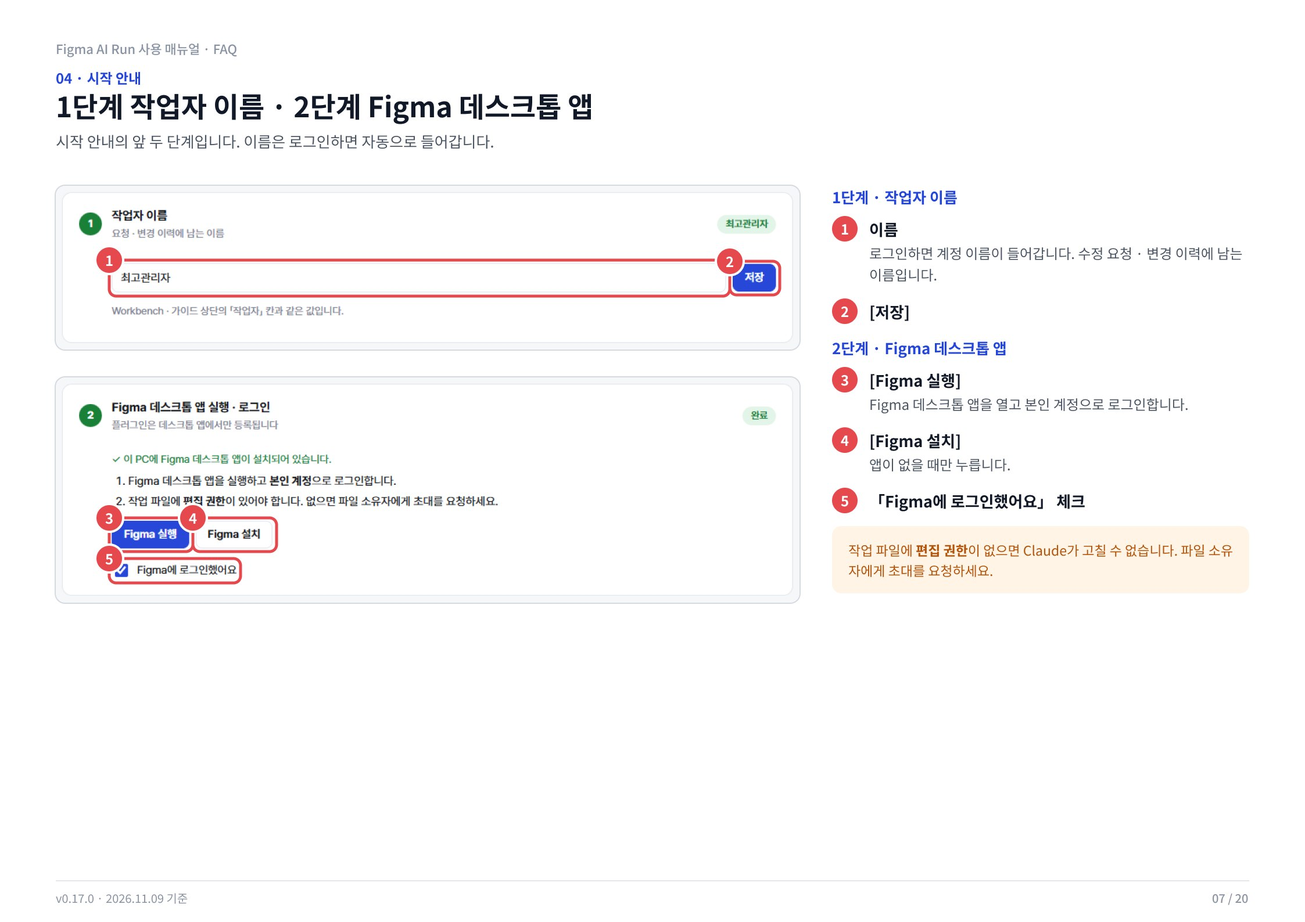
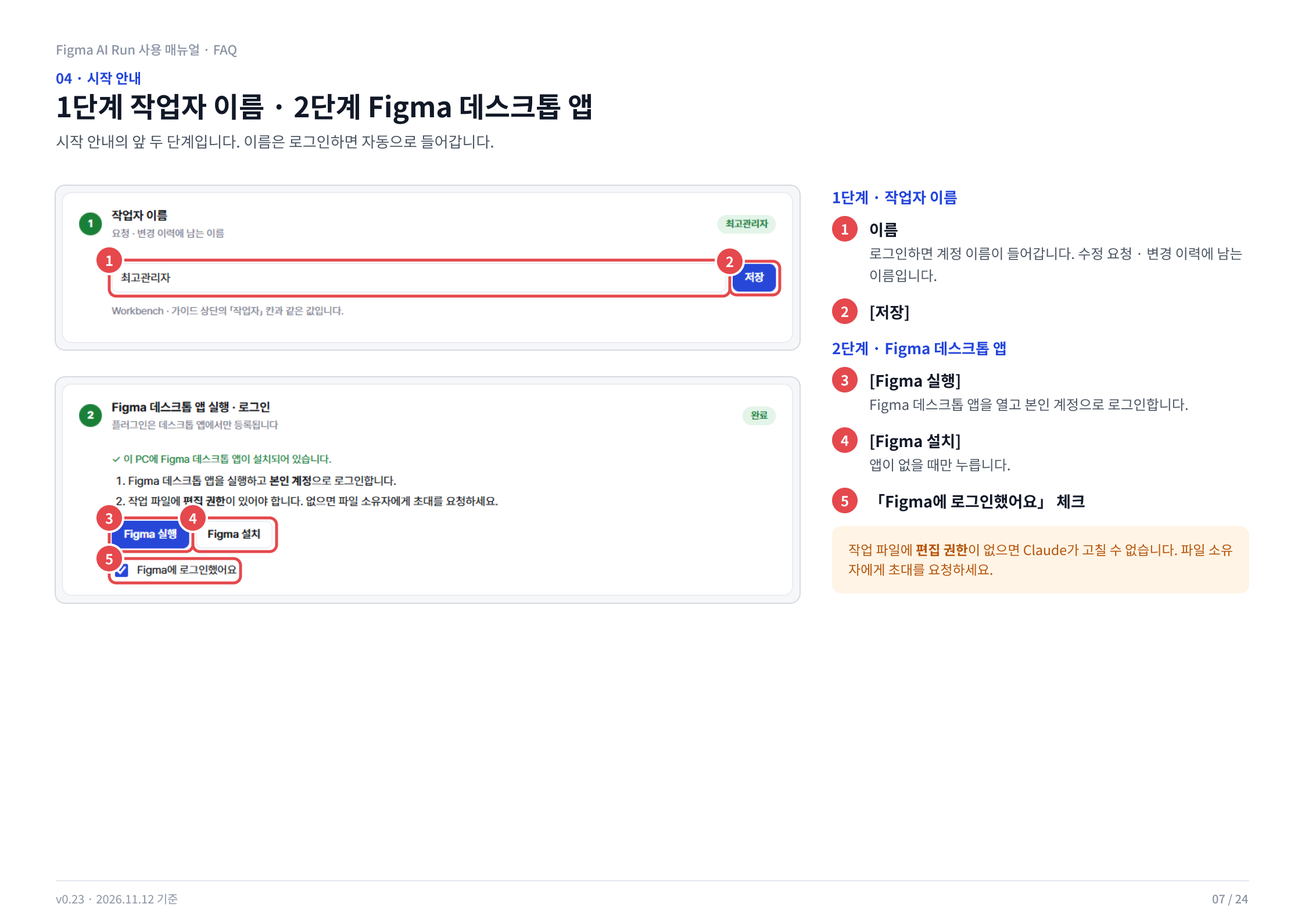
Workbench v0.23.3: 사용 매뉴얼 24쪽, Case 표기, 레이아웃은 Case 2에서, 토큰 만료일 칸 없앰
- 사용 매뉴얼 · FAQ를 v0.23 기준 24쪽으로(Figma 토큰 · 댓글 · UX 문서 수정 · 일정/작업 쪽 추가, Workbench 화면 새로)
- Workbench · 일정/작업 · 사용량 통계: 케이스 → Case(예전 기록도 Case로)
- 레이아웃 선택은 Case 2(신규 화면)에서만
- 시작 안내 Figma 토큰: 만료 기간 · 만료일 칸 없앰(Figma가 만료일을 알려 주지 않음)
- UX 문서: 한 파일 문서도 문서 경로 표시

diff --git a/pages/Setup.html b/pages/Setup.html
@@ -120,7 +120,7 @@ a{color:var(--accent)}
 .toast{position:fixed;left:50%;bottom:24px;transform:translateX(-50%);background:var(--ink);color:var(--bg);padding:8px 16px;border-radius:8px;font-size:13px;opacity:0;transition:opacity .2s;pointer-events:none}
 .toast.show{opacity:1}
 @media (max-width:600px){ .body{padding:0 16px 16px} .step>summary{padding:12px 14px} }
-/* 사용 매뉴얼 · FAQ 보기(같은 화면, 내려받기 없음). 쪽 그림 = docs/manual/p01~p20.jpg (Figma 「Figma AI Run 사용 매뉴얼 · FAQ」 섹션 2214:48416을 2배로 캡처) */
+/* 사용 매뉴얼 · FAQ 보기(같은 화면, 내려받기 없음). 쪽 그림 = docs/manual/p01~p24.jpg (Figma 「Figma AI Run 사용 매뉴얼 · FAQ」 섹션 2214:48416을 2배로 캡처) */
 .app-head-act{display:flex;align-items:center;gap:10px}
 .man{position:fixed;inset:0;z-index:1000;display:flex;background:rgba(10,12,16,.55)}
 .man[hidden]{display:none}
@@ -326,18 +326,15 @@ a{color:var(--accent)}
       <p class="msg" id="tokMsg">확인 중…</p>
       <ol>
         <li>Figma(웹 또는 앱) 왼쪽 위 내 계정 › <b>Settings › Security › Personal access tokens</b> › <b>Generate new token</b></li>
-        <li>이름은 아무거나(예: Figma AI Run), <b>만료</b> 기간은 Figma에서 정합니다(최대 90일). 그때 고른 기간을 아래 「만료」에도 똑같이 골라 주세요 — Figma가 만료일을 알려 주지 않아 여기서 날짜를 기억해 두고 남은 날을 보여 줍니다.</li>
+        <li>이름은 아무거나(예: Figma AI Run), <b>만료</b> 기간은 Figma에서 정합니다(최대 90일). 만료되면 여기에 「만료됨」이 뜨니 새로 만들어 다시 넣으면 됩니다.</li>
         <li>권한(Scopes)은 <b>File content: Read</b> · <b>File versions: Read</b> · <b>Comments: Read and write</b>만 고르고 나머지는 <b>No access</b>로 둡니다.</li>
         <li>만든 토큰(<code>figd_</code>로 시작)을 복사해 아래에 붙여 넣고 <b>저장</b>을 누릅니다. 토큰은 만들 때 한 번만 보이니 바로 붙여 넣으세요.</li>
       </ol>
       <div class="row">
         <input class="inp" id="tokIn" type="password" autocomplete="off" spellcheck="false" placeholder="figd_…" aria-label="Figma 개인 액세스 토큰">
-        <select class="inp" id="tokDays" aria-label="토큰 만료 기간" style="flex:none;width:auto"><option value="90" selected>만료 90일</option><option value="30">만료 30일</option><option value="7">만료 7일</option><option value="1">만료 1일</option><option value="date">날짜 직접</option><option value="">만료 모름</option></select>
-        <input class="inp" id="tokDate" type="date" aria-label="토큰 만료일" style="flex:none;width:auto;display:none">
         <button class="btn pri" id="tokSave">저장</button>
       </div>
-      <div class="row"><button class="btn" id="tokCheck" style="display:none">연결 확인</button><button class="btn" id="tokDel" style="display:none">토큰 지우기</button>
-        <span id="tokExpBox" style="display:none;align-items:center;gap:6px"><label for="tokExpIn" class="hint" style="margin:0">만료일</label><input class="inp" id="tokExpIn" type="date" style="width:auto"><button class="btn" id="tokExpSave">만료일 저장</button></span></div>
+      <div class="row"><button class="btn" id="tokCheck" style="display:none">연결 확인</button><button class="btn" id="tokDel" style="display:none">토큰 지우기</button></div>
       <p class="hint">토큰은 <b>이 PC에만</b> 저장되고(작업 이력 · 배포에 들어가지 않음) Figma 말고는 어디에도 보내지 않습니다. 화면에는 끝 4자리만 보입니다.
         파일을 <b>Full · Dev 좌석</b>으로 볼 수 있는 계정의 토큰이어야 캡처를 충분히 받을 수 있습니다(View · Collab 좌석은 한 달에 몇 번뿐).</p>
     </div>
@@ -609,26 +606,16 @@ a{color:var(--accent)}
     '<li id="nav-sTok" class="opt"><button type="button" data-step="sTok"><span class="sn">+</span><span class="st">Figma 토큰 (선택)</span></button></li>';
   /* ── Figma 토큰(선택) ── 서버(/api/figma)는 토큰을 내보내지 않고 있음 · 계정 · 끝 4자리만 */
   function tokPost(b){ return fetch('/api/figma', { method: 'POST', headers: { 'Content-Type': 'application/json' }, body: JSON.stringify(b) }).then(function(r){ return r.json().catch(function(){ return { error: '서버 응답 오류(HTTP ' + r.status + ')' }; }); }).then(function(d){ if (d.error) throw new Error(d.error); return d; }); }
-  /* 만료일 → 남은 날(오늘 0시 기준). 7일 이하는 주의, 지나면 만료 */
-  function tokLeft(exp){ if (!/^\d{4}-\d{2}-\d{2}$/.test(exp || '')) return null; var p = exp.split('-'), e = new Date(+p[0], +p[1] - 1, +p[2]), t = new Date(); t.setHours(0, 0, 0, 0); return Math.round((e - t) / 86400000); }
-  function ymdAdd(n){ var d = new Date(); d.setDate(d.getDate() + n); return d.getFullYear() + '-' + ('0' + (d.getMonth() + 1)).slice(-2) + '-' + ('0' + d.getDate()).slice(-2); }
   function tokShow(d){
-    var chip = $('tokChip'), on = d && d.token, left = on ? tokLeft(d.expires) : null;
-    /* 만료일은 D-day로: 남은 날 D-05 · 오늘 D-00, 지나면 D+03 (만료) */
-    var dd = left == null ? '' : left >= 0 ? 'D-' + ('0' + left).slice(-2) : 'D+' + ('0' + (-left)).slice(-2);
-    var dead = on && (!!d.deadAt || (left != null && left < 0)), today = on && !dead && left === 0;   // Figma가 거부했거나 날짜가 지났으면 바로 만료, 당일은 「오늘 만료」
-    chip.className = 'chip ' + (on ? (dead || today ? 'bad' : left != null && left <= 7 ? 'wait' : 'ok') : '');
-    chip.textContent = d === null ? '' : !on ? '선택' : dead ? '만료됨' + (dd ? ' · ' + dd : '') : today ? 'D-00 오늘 만료' : left == null ? '연결됨' : dd;
-    var tsn = $('nav-sTok'); if (tsn) tsn.querySelector('.st').textContent = 'Figma 토큰 (선택)' + (on && dd ? ' · ' + dd : '');
-    $('tokExpBox').style.display = on ? 'inline-flex' : 'none'; if (on && document.activeElement !== $('tokExpIn')) $('tokExpIn').value = d.expires || '';
-    $('sTok').classList.toggle('done', !!on);
-    var tl = $('nav-sTok'); if (tl) { tl.classList.toggle('on', !!on); tl.querySelector('.sn').textContent = on ? '✓' : '+'; }
+    var chip = $('tokChip'), on = d && d.token, dead = on && !!d.deadAt;   // Figma가 토큰을 거부하면(만료 · 취소) 만료됨
+    chip.className = 'chip ' + (on ? (dead ? 'bad' : 'ok') : ''); chip.textContent = d === null ? '' : !on ? '선택' : dead ? '만료됨' : '연결됨';
+    $('sTok').classList.toggle('done', !!on && !dead);
+    var tl = $('nav-sTok'); if (tl) { tl.classList.toggle('on', !!on && !dead); tl.querySelector('.sn').textContent = on && !dead ? '✓' : '+'; }
     $('tokCheck').style.display = $('tokDel').style.display = on ? '' : 'none';
     if (d === null) { $('tokMsg').textContent = '지금 서버(예전 서버)에서는 쓸 수 없습니다. Figma AI Run을 다시 실행하면 새 서버로 켜집니다.'; return; }
     var u = d.user || {};
     $('tokMsg').innerHTML = on ? '연결됨 · <b>' + esc(u.handle || '') + '</b>' + (u.email ? ' (' + esc(u.email) + ')' : '') + ' · 토큰 …' + esc(d.last4) +
-      ' · ' + (left == null ? '만료일 모름(아래에서 넣을 수 있습니다)' : '만료일 <b>' + esc(d.expires) + '</b> · <b' + (dead || today ? ' style="color:var(--red)"' : left <= 7 ? ' style="color:var(--warn)"' : '') + '>' + dd + '</b>' + (dead ? '' : today ? ' <b style="color:var(--red)">오늘 만료 — 새 토큰을 넣어 주세요</b>' : left <= 7 ? ' <b style="color:var(--warn)">곧 만료 — 새 토큰을 준비하세요</b>' : '')) +
-      (dead ? '<br><b style="color:var(--red)">만료됨' + (d.deadAt ? ' — Figma가 이 토큰을 거부했습니다(' + esc(String(d.deadAt).slice(0, 16).replace('T', ' ')) + ')' : '') + '. 새 토큰을 만들어 다시 넣어 주세요.</b>' : '') +
+      (dead ? '<br><b style="color:var(--red)">만료됨 — Figma가 이 토큰을 거부했습니다(' + esc(String(d.deadAt).slice(0, 16).replace('T', ' ')) + '). 새 토큰을 만들어 다시 넣어 주세요.</b>' : '') +
       '<br>Claude가 Workbench 요청을 끝내면 고친 화면을 서버가 이 토큰으로 다시 캡처합니다.'
       : '토큰이 없습니다. 없어도 지금처럼 Figma 플러그인 · Claude가 캡처합니다.';
   }
@@ -636,14 +623,11 @@ a{color:var(--accent)}
   $('tokSave').onclick = function(){
     var v = $('tokIn').value.trim(); if (!v) { $('tokIn').focus(); return; }
     var b = $('tokSave'); b.disabled = true; $('tokMsg').textContent = 'Figma에 확인하는 중…';
-    var dv = $('tokDays').value, exp = dv === 'date' ? $('tokDate').value : dv ? ymdAdd(+dv) : '';
-    tokPost({ action: 'token', token: v, expires: exp }).then(function(d){ $('tokIn').value = ''; toast('Figma 토큰을 저장했습니다(' + ((d.user && d.user.handle) || '') + ')'); return tokLoad(); })
+    tokPost({ action: 'token', token: v }).then(function(d){ $('tokIn').value = ''; toast('Figma 토큰을 저장했습니다(' + ((d.user && d.user.handle) || '') + ')'); return tokLoad(); })
       .catch(function(e){ $('tokMsg').textContent = '저장하지 못했습니다: ' + e.message; }).then(function(){ b.disabled = false; });
   };
   $('tokCheck').onclick = function(){ tokPost({ action: 'check' }).then(function(d){ toast('Figma 연결 정상 · ' + ((d.user && d.user.handle) || '')); }).catch(function(e){ $('tokMsg').textContent = '연결 확인 실패: ' + e.message; }); };
   $('tokDel').onclick = function(){ if (!confirm('이 PC에 저장한 Figma 토큰을 지울까요?')) return; tokPost({ action: 'clear' }).then(function(){ toast('Figma 토큰을 지웠습니다'); return tokLoad(); }).catch(function(e){ alert(e.message); }); };
-  $('tokDays').onchange = function(){ $('tokDate').style.display = this.value === 'date' ? '' : 'none'; };
-  $('tokExpSave').onclick = function(){ tokPost({ action: 'expires', expires: $('tokExpIn').value }).then(function(){ toast('만료일을 저장했습니다'); return tokLoad(); }).catch(function(e){ alert(e.message); }); };
   tokLoad();
 
   select('s1');
@@ -668,7 +652,7 @@ a{color:var(--accent)}
 <script>
 /* 사용 매뉴얼 · FAQ: 쪽 그림을 같은 화면에서 넘겨 본다(내려받기 버튼 없음). ← → 쪽 넘김, Esc 닫기, 그림 누르면 크게 */
 (function(){
-  var T = ['표지','목차','시작하기 전에','로그인','상단 메뉴','시작 안내 한눈에','시작 안내 1·2단계','시작 안내 3·4단계','시작 안내 5·6단계','시작 안내 7단계','시작 안내 8단계','Workbench 화면 구성','수정 요청 · 답변','UX 문서 · 작업 기준','변경 이력','사용량 통계','이용 시 유의사항 1','이용 시 유의사항 2','문제 해결 FAQ 1','문제 해결 FAQ 2'];
+  var T = ['표지','목차','시작하기 전에','로그인','상단 메뉴','시작 안내 한눈에','시작 안내 1·2단계','시작 안내 3·4단계','시작 안내 5·6단계','시작 안내 7단계','시작 안내 8단계','시작 안내 Figma 토큰','Workbench 화면 구성','수정 요청 · 답변','Figma 댓글','UX 문서 · 작업 기준','UX 문서 · 문서 수정','일정/작업','변경 이력','사용량 통계','이용 시 유의사항 1','이용 시 유의사항 2','문제 해결 FAQ 1','문제 해결 FAQ 2'];
   var $m = function(id){ return document.getElementById(id); }, cur = 0, last = null;
   var src = function(i){ return 'docs/manual/p' + (i < 9 ? '0' : '') + (i + 1) + '.jpg'; };
   $m('manToc').innerHTML = T.map(function(t, i){ return '<li><button type="button" data-i="' + i + '"><b>' + (i + 1) + '</b><span>' + t + '</span></button></li>'; }).join('');

diff --git a/pages/Work.html b/pages/Work.html
@@ -413,7 +413,7 @@ dialog::backdrop{background:rgba(10,14,20,.45)}
     { k: 'backlog', label: '화면설계서 작업대기', about: '화면설계서의 반영 대기 목록 중 아직 화면에 반영하지 않은 것을 메뉴 · 화면별로 봅니다.' },
     { k: 'minutes', label: '회의록', about: '회의록을 봅니다.' },
     { k: 'decisions', label: '논의 대상', about: '정책 · 화면에서 정해야 할 것을 한 리스트로 봅니다(규칙 저장소 discussions/).' },
-    { k: 'worklogs', label: '작업 기록', about: '화면설계 작업(케이스 1 · 2 · 3)의 단계 진행과 다음 할 일을 봅니다(규칙 저장소 work-logs/).' }
+    { k: 'worklogs', label: '작업 기록', about: '화면설계 작업(Case 1 · 2 · 3)의 단계 진행과 다음 할 일을 봅니다(규칙 저장소 work-logs/).' }
   ];
   $('tabs').innerHTML = TABS.map(function(t, i){
     return '<button type="button" role="tab" id="tab-' + t.k + '" data-tab="' + t.k + '" aria-controls="panel-' + t.k + '" aria-selected="' + (i ? 'false' : 'true') + '"' + (i ? ' tabindex="-1"' : '') + '>' + esc(t.label) + '<span class="cnt" id="cnt-' + t.k + '"></span></button>';
@@ -1027,7 +1027,7 @@ dialog::backdrop{background:rgba(10,14,20,.45)}
       '<div class="stat"><div class="l">작업 중</div><div class="v">' + doingN + '</div><div class="s">진행 중인 화면설계 작업이 고른 항목</div></div>' +
       '<div class="stat"><div class="l">작업 대기 화면</div><div class="v">' + act.length + '</div><div class="s">전체 화면 ' + S.length + '개</div></div>' +
       '<div class="stat"><div class="l">메뉴</div><div class="v">' + groups.length + '</div></div></div>' +
-      '<p class="rule">반영 대기 목록 = 내 작업 밖의 다른 화면에 반영해야 하는 변경을 그 화면의 화면 MD에 남겨 둔 것입니다. 화면설계 작업(케이스 1)의 1단계에서 「이번에 반영」으로 고르면 「작업 중」, 7단계 완료(화면 컨펌) 때 「반영 완료」가 됩니다.</p>';
+      '<p class="rule">반영 대기 목록 = 내 작업 밖의 다른 화면에 반영해야 하는 변경을 그 화면의 화면 MD에 남겨 둔 것입니다. 화면설계 작업(Case 1)의 1단계에서 「이번에 반영」으로 고르면 「작업 중」, 7단계 완료(화면 컨펌) 때 「반영 완료」가 됩니다.</p>';
     var left = '<div class="mhead"><input type="search" id="blq" class="minp" placeholder="CID · 화면 이름 찾기" value="' + esc(blQ) + '" aria-label="화면 찾기"></div>' +
       groups.map(function(g){
         var list = g.list.filter(function(s){ return !q || (s.cid + ' ' + s.title).toLowerCase().indexOf(q) >= 0; }); if (!list.length) return '';
@@ -1047,7 +1047,7 @@ dialog::backdrop{background:rgba(10,14,20,.45)}
         '<span class="sp"></span>' + ['<button type="button" class="pill' + (blKind ? '' : ' on') + '" data-blk="">전체</button>'].concat(Object.keys(kinds).map(function(k){ return '<button type="button" class="pill' + (blKind === k ? ' on' : '') + '" data-blk="' + esc(k) + '">' + esc(k) + ' ' + kinds[k] + '</button>'; })).join('') + '</div>' +
         // 대기 항목을 골라 화면설계 작업(케이스 1 부분 수정)으로 요청(이미 요청한 항목은 요청 번호 · 상태를 보여 주고 고를 수 없다)
         (W && s.wait.length ? '<div class="blreq"><span class="muted" id="blPickN">고른 항목 0</span>' + (fig ? '' : '<span class="pill warn">이 화면에 Figma 링크(figma:)가 없어 요청을 만들 수 없습니다</span>') +
-          '<button class="btn sm primary" type="button" data-blreq' + (fig ? '' : ' disabled') + ' title="케이스 1(부분 수정) 새 작업으로 Workbench에 요청합니다. 1단계에서 이 항목들을 「이번에 반영」으로 고릅니다">고른 항목으로 화면설계 작업(케이스 1) 요청</button></div>' : '') +
+          '<button class="btn sm primary" type="button" data-blreq' + (fig ? '' : ' disabled') + ' title="Case 1(부분 수정) 새 작업으로 Workbench에 요청합니다. 1단계에서 이 항목들을 「이번에 반영」으로 고릅니다">고른 항목으로 화면설계 작업(Case 1) 요청</button></div>' : '') +
         '<div class="tbl-wrap"><table class="t"><thead><tr>' + (W ? '<th style="width:34px"><input type="checkbox" id="blPickAll" aria-label="요청 안 한 대기 항목 모두 고르기"></th>' : '') + '<th class="num">ID</th><th>타입</th><th>변경 전</th><th>변경 후</th><th>근거</th><th>상태</th></tr></thead><tbody>' +
         (rows.length ? rows.map(function(r){
           var rq = fixReq[fixKey(s, r)], can = W && /^대기/.test(r.st) && !(rq && /^(대기|진행 중|보류)$/.test(rq.status));
@@ -1200,7 +1200,7 @@ dialog::backdrop{background:rgba(10,14,20,.45)}
   /* ══ 작업 기록: 규칙 저장소 work-logs/*.md (reference-rules/work-log.md) — 누가 어느 메뉴를 몇 단계까지, 다음 할 일 ══ */
   var WL = null, wlSel = new URLSearchParams(location.search).get('w') || '', wlStat = 'open', wlText = {};
   var WL_ST = ['0. 시작', '1. 요건 정의', '2. 근거 · 분석', '3. 화면 설계', '4. 검토', '5. 고객 UX 리뷰', '6. 다국어', '7. 완료'];
-  var CASE_N = { '1': '케이스 1 · 부분 수정', '2': '케이스 2 · 신규 화면', '3': '케이스 3 · 다시 그리기' };
+  var CASE_N = { '1': 'Case 1 · 부분 수정', '2': 'Case 2 · 신규 화면', '3': 'Case 3 · 다시 그리기' };
   function loadWl(){
     return api('/api/worklogs').then(function(j){ WL = j; setCnt('worklogs', (j.items || []).filter(function(w){ return w.status === '진행 중'; }).length); })
       .catch(function(){ WL = WL || { items: [] }; });
@@ -1218,8 +1218,8 @@ dialog::backdrop{background:rgba(10,14,20,.45)}
       opt('open', '진행 중', n(function(w){ return w.status !== '끝남' && w.status !== '멈춤'; })) + opt('끝남', '끝남', n(function(w){ return w.status === '끝남'; })) + opt('멈춤', '멈춤', n(function(w){ return w.status === '멈춤'; })) + opt('all', '전체', all.length) + '</select></label></div>' +
       (L.length ? L.map(function(w){
         return '<button type="button" class="mitem" data-wl="' + esc(w.name) + '"' + (w.name === wlSel ? ' aria-current="true"' : '') + '><b>' + esc(w.title || w.name) + '</b><span>' + esc([w.requester, w.menu, w.started].filter(Boolean).join(' · ')) + '</span>' +
-          '<span class="chips"><span class="pill">' + esc(CASE_N[w.case] || ('케이스 ' + (w.case || '?'))) + '</span><span class="pill ' + (w.status === '끝남' ? 'done' : w.status === '멈춤' ? 'warn' : 'prog') + '">' + esc(w.status === '끝남' ? '끝남' : stg(w)) + '</span>' + (w.test ? '<span class="pill review">테스트</span>' : '') + '</span></button>';
-      }).join('') : '<p class="muted" style="margin:8px">' + (wlStat === 'open' ? '진행 중인 화면설계 작업이 없습니다. Figma Workbench에서 케이스를 골라 「새 작업」으로 요청하면 0단계에서 작업 기록이 생깁니다.' : '작업 기록이 없습니다.') + '</p>');
+          '<span class="chips"><span class="pill">' + esc(CASE_N[w.case] || ('Case ' + (w.case || '?'))) + '</span><span class="pill ' + (w.status === '끝남' ? 'done' : w.status === '멈춤' ? 'warn' : 'prog') + '">' + esc(w.status === '끝남' ? '끝남' : stg(w)) + '</span>' + (w.test ? '<span class="pill review">테스트</span>' : '') + '</span></button>';
+      }).join('') : '<p class="muted" style="margin:8px">' + (wlStat === 'open' ? '진행 중인 화면설계 작업이 없습니다. Figma Workbench에서 Case를 골라 「새 작업」으로 요청하면 0단계에서 작업 기록이 생깁니다.' : '작업 기록이 없습니다.') + '</p>');
     var w = all.filter(function(x){ return x.name === wlSel; })[0], right;
     if (!w) right = '<div class="wempty"><b>작업 기록이 없습니다</b><p>화면설계 작업 하나에 기록 하나를 둡니다(<code>' + esc(WL.dir || 'work-logs') + '</code>).</p></div>';
     else {
@@ -1259,9 +1259,9 @@ dialog::backdrop{background:rgba(10,14,20,.45)}
     var rows = s.rows.filter(function(r){ return picks.indexOf(r.n) >= 0; });
     var text = '화면설계서 작업대기 · ' + s.cid + ' ' + (s.title || '') + '의 반영 대기 ' + rows.length + '항목을 반영하는 화면 부분 수정입니다. 1단계에서 이 항목들을 「이번에 반영」으로 골라 주세요.\n' +
       rows.map(function(r){ return '- ' + r.n + ' [' + r.kind + '] 변경 전: ' + r.now + ' → 변경 후: ' + r.to + (r.why ? ' (근거: ' + r.why + ')' : ''); }).join('\n');
-    if (!confirm(s.cid + ' 화면의 ' + rows.length + '항목으로 화면설계 작업(케이스 1 · 새 작업)을 요청합니다.')) return;
+    if (!confirm(s.cid + ' 화면의 ' + rows.length + '항목으로 화면설계 작업(Case 1 · 새 작업)을 요청합니다.')) return;
     b.disabled = true;
-    api('/api/requests', { action: 'add', fileKey: fig.key, fileName: '', nodeId: fig.node, frame: s.cid + (s.title ? ' ' + s.title : ''), page: '', editable: true, type: '케이스 1 · 부분 수정 · 0단계 시작', case: '1', work: '', stage: 0, priority: '보통', layout: '', text: text, by: myName,
+    api('/api/requests', { action: 'add', fileKey: fig.key, fileName: '', nodeId: fig.node, frame: s.cid + (s.title ? ' ' + s.title : ''), page: '', editable: true, type: 'Case 1 · 부분 수정 · 0단계 시작', case: '1', work: '', stage: 0, priority: '보통', layout: '', text: text, by: myName,
       fixRows: rows.map(function(r){ return { doc: 'screens', file: s.path, n: r.n, cid: s.cid }; }) })
       .then(function(j){ return loadFixReqs().then(function(){ renderBacklog(); var id = j && j.items && j.items[0] && j.items[0].id; toast((id ? id + ' ' : '') + '화면설계 작업을 요청했습니다. Workbench · 변경 이력에서 진행을 볼 수 있습니다.'); }); })
       .catch(function(err){ b.disabled = false; alert('요청을 만들지 못했습니다.\n' + err.message); });

diff --git a/pages/Figma_Workbench.html b/pages/Figma_Workbench.html
@@ -503,8 +503,8 @@ textarea:focus,select:focus,input:focus{outline:2px solid var(--accent);outline-
           <div class="target">대상 <span id="tgtPage" class="badge"></span> <b id="tgt"></b> <code id="tgtId" class="badge"></code> <button type="button" class="gen-btn" id="genBtn" aria-pressed="false" title="프레임 선택을 풀고 이 페이지 전체에 요청합니다(새 프레임 만들기 · 여러 화면 수정 · 질문). 선택된 프레임을 한 번 더 눌러도 됩니다">페이지 전체로</button></div>
           <div class="cmp-opts">
             <!-- 화면설계 케이스(규칙 저장소 flow/README.md): 케이스마다 0 ~ 7단계를 단계 하나 = 요청 하나로 진행. 「질문 · 그 밖」은 흐름을 타지 않는 요청 -->
-            <select id="rtype" class="opt-type" aria-label="케이스" title="케이스: 1 화면 부분 수정(고도화) · 2 신규 화면 · 3 기존 화면 다시 그리기">
-              <option value="1" selected>케이스 1 · 부분 수정</option><option value="2">케이스 2 · 신규 화면</option><option value="3">케이스 3 · 다시 그리기</option>
+            <select id="rtype" class="opt-type" aria-label="Case" title="Case: 1 화면 부분 수정(고도화) · 2 신규 화면 · 3 기존 화면 다시 그리기">
+              <option value="1" selected>Case 1 · 부분 수정</option><option value="2">Case 2 · 신규 화면</option><option value="3">Case 3 · 다시 그리기</option>
               <option value="">질문 · 그 밖</option>
             </select>
             <select id="rwork" class="opt-work" aria-label="작업 기록" title="이어 갈 작업 기록(규칙 저장소 work-logs/). 새 작업이면 0단계부터 작업 기록을 만듭니다"><option value="">새 작업 · 0단계부터</option></select>
@@ -1560,7 +1560,7 @@ textarea:focus,select:focus,input:focus{outline:2px solid var(--accent);outline-
       return '<li class="req" data-id="' + esc(r.id) + '"><div class="h"><b>' + esc(r.id) + '</b><span class="st ' + stc + '">' + esc(r.status) + '</span>' +
         (!r.nodeId ? (general && (r.page || edPage()) === cur.page ? '' : '<button class="go" data-pgo="' + esc(r.page || edPage()) + '" title="이 요청의 페이지 전체 보기">' + esc(r.page || edPage()) + ' 전체 ›</button>') : r.nodeId !== cur.id || general ? '<button class="go" data-go="' + esc(r.nodeId) + '">' + esc(r.frame) + ' ›</button>' : '') +
         '<span class="sp"></span><span class="who">' + esc(r.author || '이름 없음') + '</span><span title="등록 ' + esc(r.createdAt) + ' / 변경 ' + esc(r.updatedAt) + '">' + fmt(r.updatedAt || r.createdAt) + '</span>' +
-        '</div>' + (r.case ? '<div class="h"><span class="cs" title="' + esc(r.work ? '작업 기록 ' + r.work : '새 작업') + '">' + esc(r.type) + '</span>' + (r.work ? '<span class="who">' + esc(r.work) + '</span>' : '') + '</div>' : '') + '<div class="q" title="' + esc(r.text) + '">요청 · ' + esc(String(r.text || '').split('\n')[0]) + '</div>' +
+        '</div>' + (r.case ? '<div class="h"><span class="cs" title="' + esc(r.work ? '작업 기록 ' + r.work : '새 작업') + '">' + esc(String(r.type || '').replace(/^케이스 /, 'Case ')) + '</span>' + (r.work ? '<span class="who">' + esc(r.work) + '</span>' : '') + '</div>' : '') + '<div class="q" title="' + esc(r.text) + '">요청 · ' + esc(String(r.text || '').split('\n')[0]) + '</div>' +
         ((r.images || []).length ? '<div class="ims">' + r.images.map(function(m){ var ex = ((/\.([a-z0-9]+)$/i.exec(m.file || '') || [])[1] || '').toLowerCase(); if (!attImg(ex)) return '<a class="doc" href="' + esc(m.file) + '" target="_blank" rel="noopener" title="' + esc(m.name || '첨부') + ' · 원본 보기"><b>' + esc(ex.toUpperCase()) + '</b></a>'; return '<a href="' + esc(m.file) + '" target="_blank" rel="noopener" title="' + esc(m.name || '첨부 이미지') + ' · 원본 보기"><img loading="lazy" alt="첨부 이미지" src="' + esc(m.small || m.file) + '"></a>'; }).join('') + '</div>' : '') +
         '<div class="a' + (r.note ? '' : ' wait') + '">' + (r.note ? noteHtml(r.note) : esc(WAIT[r.status] || '')) + '</div>' +
         fixedHtml(r) +
@@ -1607,13 +1607,13 @@ textarea:focus,select:focus,input:focus{outline:2px solid var(--accent);outline-
   /* ── 케이스 · 작업 기록: 화면설계는 케이스(1 부분 수정 · 2 신규 · 3 다시 그리기)마다 0 ~ 7단계, 단계 하나 = 요청 하나(규칙 저장소 flow/).
      「새 작업」이면 Claude가 0단계에서 work-logs/에 작업 기록을 만들고, 고르면 그 작업 기록에서 관문이 빈 첫 단계를 이어서 한다 */
   var worklogs = [], STG = ['0단계 시작', '1단계 요건 정의', '2단계 근거 · 분석', '3단계 화면 설계', '4단계 검토', '5단계 고객 UX 리뷰', '6단계 다국어', '7단계 완료'];
-  var CASES = { '1': '케이스 1 · 부분 수정', '2': '케이스 2 · 신규 화면', '3': '케이스 3 · 다시 그리기' };
+  var CASES = { '1': 'Case 1 · 부분 수정', '2': 'Case 2 · 신규 화면', '3': 'Case 3 · 다시 그리기' };
   function caseLabel(cs, wl){ if (!cs) return '질문 · 그 밖'; var st = wl ? wl.stage : 0; return CASES[cs] + ' · ' + (st >= 0 && st < STG.length ? STG[st] : '끝'); }
   function renderWork(){
     var cs = $('rtype').value, sel = $('rwork'), keep = sel.value;
     sel.hidden = !cs;
-    /* 레이아웃 선택은 케이스 1(부분 수정)에서만. 다른 케이스로 바꾸면 고른 레이아웃을 풀어 요청에 실리지 않게 한다 */
-    var lp = $('lpick'); if (lp) { lp.hidden = cs !== '1'; if (cs !== '1') { if (layout) setLayout(0); lpop(false); } }
+    /* 레이아웃 선택은 Case 2(신규 화면)에서만 — 새 화면의 구조를 고른다. 다른 Case로 바꾸면 고른 레이아웃을 풀어 요청에 실리지 않게 한다 */
+    var lp = $('lpick'); if (lp) { lp.hidden = cs !== '2'; if (cs !== '2') { if (layout) setLayout(0); lpop(false); } }
     var open = worklogs.filter(function(w){ return w.status !== '끝남' && w.status !== '멈춤' && (!w.case || w.case === cs); });
     sel.innerHTML = '<option value="">새 작업 · 0단계부터</option>' + open.map(function(w){
       return '<option value="' + esc(w.name) + '">' + esc((w.title || w.name) + ' · ' + (w.stage >= 0 && w.stage < STG.length ? STG[w.stage] : '끝') + (w.requester ? ' · ' + w.requester : '') + (w.test ? ' · 테스트' : '')) + '</option>';

diff --git a/node/server/figma.js b/node/server/figma.js
@@ -148,7 +148,7 @@ module.exports = function register(on, h) {
   // ── GET /api/figma: 토큰이 있는지 · 누구 계정인지 · 끝 4자리(토큰 자체는 내보내지 않는다) ──
   on('GET', '/api/figma', () => {
     const t = readTok(), tk = nn(t.token);
-    return { token: !!tk, last4: tk ? tk.slice(-4) : '', user: t.user || null, at: nn(t.at), expires: nn(t.expires), deadAt: nn(t.deadAt) };   // deadAt: Figma가 이 토큰을 거부한 시각(만료 · 지운 토큰) — 날짜와 상관없이 바로 「만료됨」
+    return { token: !!tk, last4: tk ? tk.slice(-4) : '', user: t.user || null, at: nn(t.at), deadAt: nn(t.deadAt) };   // deadAt: Figma가 이 토큰을 거부한 시각(만료 · 지운 토큰) — 날짜와 상관없이 바로 「만료됨」
   });
 
   // ── POST /api/figma {action: token | clear | check | capture} ──
@@ -179,15 +179,10 @@ module.exports = function register(on, h) {
         if (!/^[A-Za-z0-9_-]{20,200}$/.test(tk)) throw new Error('토큰 모양이 아닙니다. Figma 설정에서 만든 개인 액세스 토큰(figd_로 시작)을 붙여 넣어 주세요.');
         const me = await figma('/me', tk);
         const user = { id: nn(me.id), handle: nn(me.handle), email: nn(me.email) };
-        // 만료일: Figma API가 개인 토큰의 만료일을 알려 주지 않아, 만들 때 고른 날짜를 함께 받아 둔다(시작 안내에 「n일 남음」, 2026-11-12)
-        const exp = /^\d{4}-\d{2}-\d{2}$/.test(nn(b.expires)) ? nn(b.expires) : '';
-        core.writeJson(tokFile(), { token: tk, user, at: core.now(), expires: exp });
-        return { ok: true, token: true, last4: tk.slice(-4), user, expires: exp };
-      }
-      case 'expires': {   // 이미 넣은 토큰의 만료일만 고치기(빈 값이면 지움)
-        const t = readTok(); if (!nn(t.token)) throw new Error('Figma 토큰이 없습니다.');
-        const exp = nn(b.expires); if (exp && !/^\d{4}-\d{2}-\d{2}$/.test(exp)) throw new Error('날짜 모양이 아닙니다(YYYY-MM-DD).');
-        t.expires = exp; core.writeJson(tokFile(), t); return { ok: true, expires: exp };
+        // 만료일은 받지 않는다: Figma API가 개인 토큰의 만료일을 알려 주지 않고(/v1/me = id · 이메일 · 이름 · 사진),
+        //  사용자가 따로 넣는 것은 원하지 않음(2026-11-12). 만료되면 Figma가 401로 거부 → deadAt → 시작 안내 「만료됨」
+        core.writeJson(tokFile(), { token: tk, user, at: core.now() });
+        return { ok: true, token: true, last4: tk.slice(-4), user };
       }
       case 'clear': { try { fs.unlinkSync(tokFile()); } catch (e) {} return { ok: true, token: false }; }
       case 'check': { const me = await figma('/me'); return { ok: true, user: { id: nn(me.id), handle: nn(me.handle), email: nn(me.email) } }; }

diff --git a/pages/Usage_Stats.html b/pages/Usage_Stats.html
@@ -266,8 +266,8 @@ td.usd{font-weight:700}
   var KINDS = ['요청', 'Figma 직접 수정', 'UX 문서', '연관 항목', '회의록', '논의 대상', '프로토타입', '목록 · 캡처', '기타'];
   /* Workbench 요청 유형 = 케이스(요청 칸의 첫 선택 상자와 같은 순서, 2026-11-12 새 흐름). 케이스 요청은 단계를 떼고 케이스로 묶는다.
      그 밖 값(예전 유형 일반 · 텍스트 수정 …, 화면설계서 반영 등)은 기록에서 찾아 뒤에 붙인다 */
-  var RTYPES = ['케이스 1 · 부분 수정', '케이스 2 · 신규 화면', '케이스 3 · 다시 그리기', '질문 · 그 밖'];
-  function rtypeOf(u){ if (!u.reqId) return ''; var t = String(u.reqType || '').trim(); var m = /^(케이스 [123] · [^·]+?)\s*(·|$)/.exec(t); return m ? m[1] : (t || '(유형 없음)'); }
+  var RTYPES = ['Case 1 · 부분 수정', 'Case 2 · 신규 화면', 'Case 3 · 다시 그리기', '질문 · 그 밖'];
+  function rtypeOf(u){ if (!u.reqId) return ''; var t = String(u.reqType || '').trim().replace(/^케이스 /, 'Case '); var m = /^(Case [123] · [^·]+?)\s*(·|$)/.exec(t); return m ? m[1] : (t || '(유형 없음)'); }
   function rtypeRank(u){ var t = rtypeOf(u), i = RTYPES.indexOf(t); return !t ? 999 : i >= 0 ? i : t === '(유형 없음)' ? 998 : 500; }
   function kindOf(u){
     if (u.reqId) return '요청';

diff --git a/pages/UX_Guide.html b/pages/UX_Guide.html
@@ -945,6 +945,9 @@ html.embed,html.embed body{overflow:hidden}
     if (s.file) {
       var fl = (FILES || []).filter(function(f){ return f.path === s.file; })[0];
       m.insertAdjacentHTML('beforeend', '<p class="docpath" title="' + esc(fl ? fl.mdPath : '') + '">문서 경로 <code>' + esc(npath(id + '/' + fdirOf(meta) + s.file)) + '</code>' + (fl && fl.rev ? '<span>수정본 ' + esc(fl.rev) + '</span>' : '') + '</p>');
+    } else if (!FILES) {
+      /* 한 파일 문서(guide.md 하나, 고치면 rev/ 수정본): 항목이 모두 그 파일 안에 있으니 그 파일을 보인다 */
+      m.insertAdjacentHTML('beforeend', '<p class="docpath" title="' + esc(GINFO && GINFO.mdPath || '') + '">문서 경로 <code>' + esc(npath(id + '/guide.md')) + '</code>' + (GINFO && GINFO.rev ? '<span>수정본 ' + esc(GINFO.rev) + '</span>' : '') + '</p>');
     }
     $('tocCur').textContent = '목차 · ' + s.label; askSet();
     tree($('q').value.trim().toLowerCase());

diff --git a/RELEASE_NOTES.md b/RELEASE_NOTES.md
@@ -7,7 +7,7 @@ Figma AI Run · Workbench 프로그램의 버전별 변경 내용. 최신 버전
 
 | 묶음 | 기간 | 버전 | 주요 내용 |
 |---|---|---|---|
-| v0.23 | 2026-11-12 | 0.23.0 ~ 0.23.2 | 새 흐름: Workbench 케이스 · 단계, 논의 대상 · 작업 기록, UX가이드는 파일마다, Figma 토큰 캡처 |
+| v0.23 | 2026-11-12 | 0.23.0 ~ 0.23.3 | 새 흐름: Workbench 케이스 · 단계, 논의 대상 · 작업 기록, UX가이드는 파일마다, Figma 토큰 캡처 |
 | v0.22 | 2026-11-11 | 0.22.0 | Workbench 영역 표시(캡처 위 사각형으로 수정할 부분 지정) |
 | v0.21 | 2026-11-11 | 0.21.0 ~ 0.21.2 | 서버를 Node.js 한 벌로(윈도우 · 맥 같은 서버), 실행 중 화면 |
 | v0.20 | 2026-11-11 | 0.20.0 | 실행 아이콘(윈도우 바로가기 · 맥 앱) |
@@ -35,6 +35,14 @@ Figma AI Run · Workbench 프로그램의 버전별 변경 내용. 최신 버전
 ---
 
 ## v0.23 · 2026-11-12 · 새 흐름: Workbench 케이스 · 단계, 논의 대상 · 작업 기록, UX가이드는 파일마다, Figma 토큰 캡처
+
+### v0.23.3 · 2026-11-12 · 사용 매뉴얼 24쪽으로 새로, Case 표기, 레이아웃은 Case 2에서, 토큰 만료일 칸 없앰
+
+- **사용 매뉴얼 · FAQ를 v0.23 기준으로 다시 만듦**(20쪽 → 24쪽, 시작 안내 [매뉴얼]): 새 쪽 — 시작 안내 Figma 토큰(Figma 설정 › 보안 › 개인 액세스 토큰 만드는 법) · Figma 댓글 보기 · 쓰기 · UX 문서 문서 수정 · 일정/작업(논의 대상 · 작업 기록). 새 화면으로 다시 그림 — 표지 · 시작 안내 한눈에 · Workbench 화면 구성(1:1 배치 · 작업 페이지 목록) · 수정 요청(Case · 작업 기록 · 영역 선택 · 첨부 20개 · 페이지 전체). 목차 · 쪽 번호 · 유의사항 · FAQ 문구도 맞춤. 쪽 그림은 `docs/manual/p01~p24.jpg`(Figma 「Figma AI Run 사용 매뉴얼 · FAQ」 섹션).
+- **Workbench 「케이스」 → 「Case」**: 요청 칸 선택(Case 1 · 부분 수정 · Case 2 · 신규 화면 · Case 3 · 다시 그리기), 요청 카드, 일정/작업(작업 기록 · 화면설계서 작업대기), 사용량 통계 요청 유형. 예전에 「케이스 n」으로 저장된 요청도 Case로 보이고 같은 묶음으로 센다.
+- **레이아웃 선택은 Case 2(신규 화면)에서만** 보인다(새 화면의 구조를 고르는 것이라, 예전에는 Case 1에서 보였다).
+- **시작 안내 Figma 토큰: 만료 기간 · 만료일 칸 없앰**. Figma API가 개인 토큰의 만료일을 알려 주지 않는다(`/v1/me` = id · 이메일 · 이름 · 사진). 만료되면 Figma가 거부해 「만료됨」으로 보인다(서버도 만료일을 받지 않음).
+- **UX 문서**: 파일 하나로 된 문서(`guide.md`)도 항목 아래에 「문서 경로 {문서 ID}/guide.md」가 보인다(여러 파일 문서만 보이던 것).
 
 ### v0.23.2 · 2026-11-12 · UX 문서 직접 수정을 제자리에서
 
